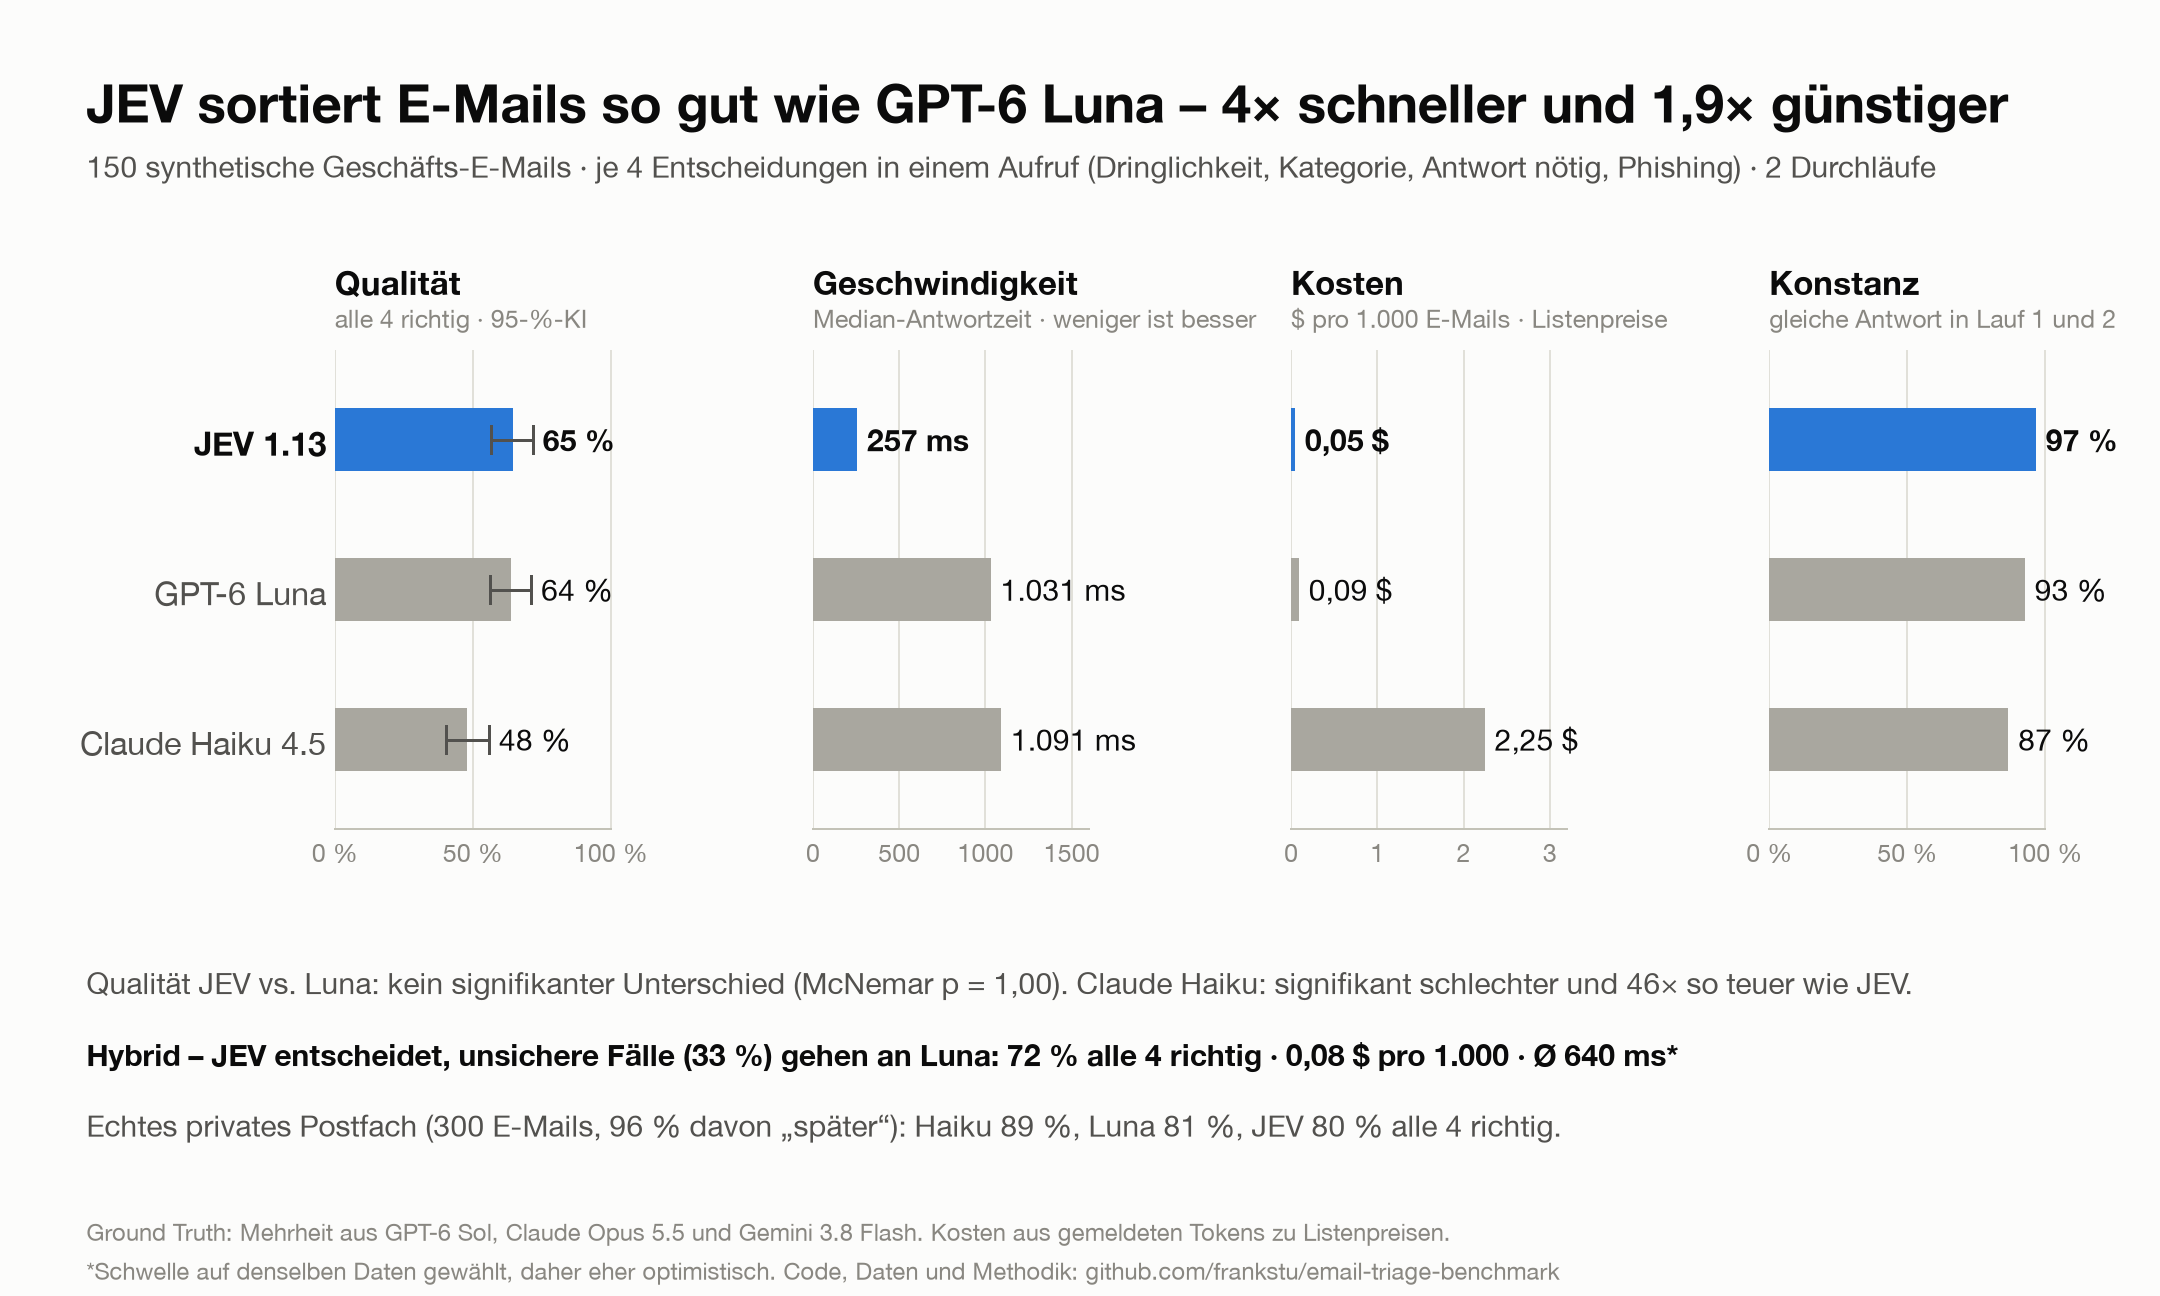
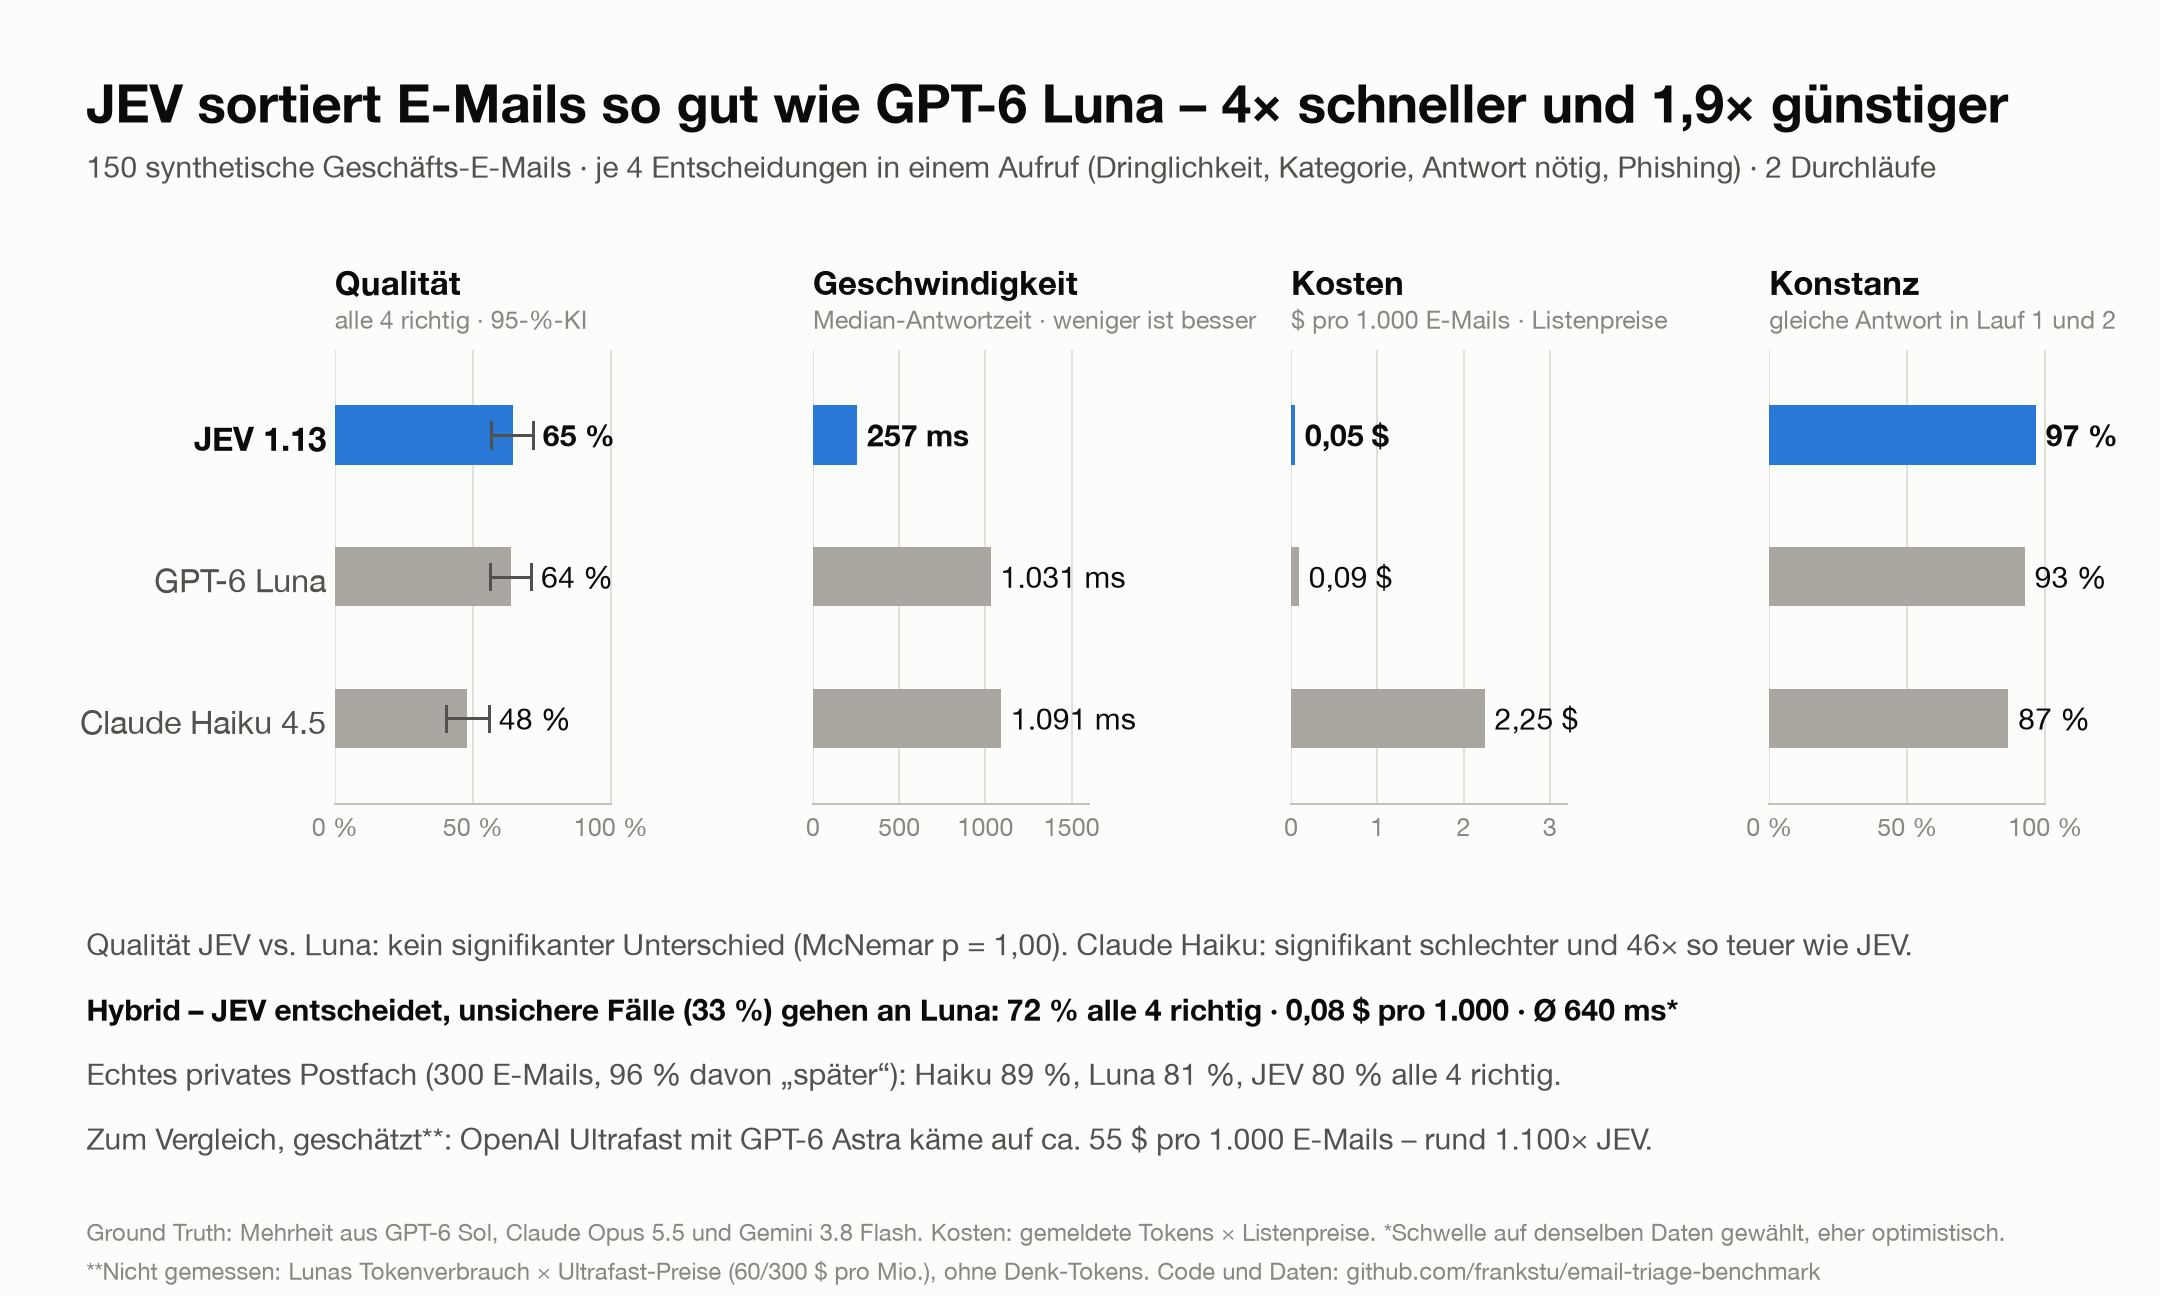
Ultrafast-Schätzung im Überblick, mittlere Output-Tokens in der Auswertung
- evaluate: tokens_out_mittel je Modell
- charts: geschätzte Kosten für OpenAI Ultrafast (GPT-6 Astra) aus Lunas
  gemessenem Tokenverbrauch, klar als nicht gemessen gekennzeichnet
- .gitignore: drafts/ für unveröffentlichte Texte

diff --git a/scripts/charts.py b/scripts/charts.py
@@ -41,6 +41,9 @@ BASELINE = "#c3c2b7"
 
 MODELS = (("jev", "JEV 1.13"), ("gpt-6-luna", "GPT-6 Luna"), ("haiku-4.5", "Claude Haiku 4.5"))
 HYBRID_SHOWN = 0.5  # Schwelle, die im Überblick genannt wird
+# OpenAI Ultrafast für GPT-6 Astra, $ pro 1 Mio. Tokens (Input, Output), seit 29.09.2026 – nicht gemessen,
+# nur als Schätzung mit Lunas gemessenem Tokenverbrauch
+ULTRAFAST_ASTRA_USD = (60.0, 300.0)
 DPI = 180
 
 plt.rcParams.update({
@@ -124,6 +127,7 @@ def _numbers(metrics: Mapping[str, object]) -> dict[str, object]:
         "hybrid": next(h for h in syn["hybrid"]["gpt-6-luna"] if h["schwelle"] == HYBRID_SHOWN),
         "real": echt["signifikanz"]["alle_vier_lauf1"],
         "later_share": echt["immer_haeufigste_klasse"]["dringlichkeit"],
+        "luna_tokens": (mods["gpt-6-luna"]["tokens_in_mittel"], mods["gpt-6-luna"]["tokens_out_mittel"]),
     }
 
 
@@ -133,6 +137,9 @@ def _findings(n: Mapping[str, object]) -> list[tuple[str, str]]:
     p_luna = float(str(n["p_luna"]))
     sig_text = "kein signifikanter Unterschied" if p_luna >= 0.05 else "signifikanter Unterschied"
     later = 100 * float(str(n["later_share"]))
+    tokens = n["luna_tokens"]
+    assert isinstance(tokens, tuple)
+    ultrafast = (tokens[0] * ULTRAFAST_ASTRA_USD[0] + tokens[1] * ULTRAFAST_ASTRA_USD[1]) / 1_000_000 * 1000
     return [
         (f"Qualität JEV vs. Luna: {sig_text} (McNemar p = {de(p_luna, 2)}). "
          f"Claude Haiku: signifikant schlechter und {de(cost[2] / cost[0])}× so teuer wie JEV.", INK_2),
@@ -142,6 +149,8 @@ def _findings(n: Mapping[str, object]) -> list[tuple[str, str]]:
         (f"Echtes privates Postfach (300 E-Mails, {de(later)} % davon „später“): "
          f"Haiku {de(100 * real['haiku-4.5']['anteil'])} %, Luna {de(100 * real['gpt-6-luna']['anteil'])} %, "
          f"JEV {de(100 * real['jev']['anteil'])} % alle 4 richtig.", INK_2),
+        (f"Zum Vergleich, geschätzt**: OpenAI Ultrafast mit GPT-6 Astra käme auf ca. {de(ultrafast)} $ "
+         f"pro 1.000 E-Mails – rund {de(round(ultrafast / cost[0], -2))}× JEV.", INK_2),
     ]
 
 
@@ -160,7 +169,7 @@ def overview(metrics: Mapping[str, object]) -> Path:
              "(Dringlichkeit, Kategorie, Antwort nötig, Phishing) · 2 Durchläufe",
              fontsize=12, color=INK_2, va="top")
 
-    grid = fig.add_gridspec(1, 4, left=0.155, right=0.975, top=0.73, bottom=0.36, wspace=0.42)
+    grid = fig.add_gridspec(1, 4, left=0.155, right=0.975, top=0.73, bottom=0.38, wspace=0.42)
     axes = [fig.add_subplot(grid[0, i]) for i in range(4)]
     panels = (
         Panel("Qualität", "alle 4 richtig · 95-%-KI", quality, [f"{de(v)} %" for v in quality],
@@ -182,12 +191,13 @@ def overview(metrics: Mapping[str, object]) -> Path:
         ax.set_yticks([])
 
     for i, (text, ink) in enumerate(_findings(n)):
-        fig.text(0.04, 0.255 - 0.055 * i, text, fontsize=12, color=ink, va="top",
+        fig.text(0.04, 0.285 - 0.05 * i, text, fontsize=12, color=ink, va="top",
                  fontweight="bold" if ink == INK else "normal")
     fig.text(0.04, 0.06, "Ground Truth: Mehrheit aus GPT-6 Sol, Claude Opus 5.5 und Gemini 3.8 Flash. "
-             "Kosten aus gemeldeten Tokens zu Listenpreisen.", fontsize=9.5, color=MUTED, va="top")
-    fig.text(0.04, 0.03, f"*Schwelle auf denselben Daten gewählt, daher eher optimistisch. "
-             f"Code, Daten und Methodik: {REPO}", fontsize=9.5, color=MUTED, va="top")
+             "Kosten: gemeldete Tokens × Listenpreise. *Schwelle auf denselben Daten gewählt, eher optimistisch.",
+             fontsize=9.5, color=MUTED, va="top")
+    fig.text(0.04, 0.03, f"**Nicht gemessen: Lunas Tokenverbrauch × Ultrafast-Preise (60/300 $ pro Mio.), "
+             f"ohne Denk-Tokens. Code und Daten: {REPO}", fontsize=9.5, color=MUTED, va="top")
 
     path = OUT / "ueberblick.png"
     fig.savefig(path, dpi=DPI)

diff --git a/src/jev_bench/evaluate.py b/src/jev_bench/evaluate.py
@@ -123,6 +123,8 @@ def model_metrics(rows: Sequence[Row], truth: Mapping[str, Row]) -> dict[str, ob
         "kosten_pro_1000_usd": round(statistics.mean(costs) * 1000, 4) if costs else None,
         "tokens_in_mittel": (round(statistics.mean(float(str(r["tokens_in"])) for r in valid), 1)
                              if valid else None),
+        "tokens_out_mittel": (round(statistics.mean(float(str(r.get("tokens_out", 0))) for r in valid), 1)
+                              if valid else None),
     }
 
 

diff --git a/tests/test_bench.py b/tests/test_bench.py
@@ -102,6 +102,7 @@ def test_model_metrics_quality_consistency_latency_cost() -> None:
     assert isinstance(konstanz, dict) and konstanz["alle_felder"] == 0.5
     assert m["latenz_ms"] == {"p50": 10.0, "p95": 10.0, "mittel": 10.0}
     assert m["kosten_pro_1000_usd"] == 1.0
+    assert m["tokens_in_mittel"] == 100.0 and m["tokens_out_mittel"] == 0.0
 
 
 def test_majority_baseline() -> None:
